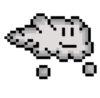
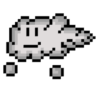
Implemented clouds

diff --git a/dinorun_game/Game.cpp b/dinorun_game/Game.cpp
@@ -1,7 +1,9 @@
 #include "Game.h"
-
+#include <iostream>
 Game::Game()
-	: backgroundMusic()
+	: gameClock()
+	, window(sf::VideoMode::getDesktopMode(), "Dino Run", sf::Style::Titlebar | sf::Style::Close)
+	, backgroundMusic()
 	, hasCollided()
 	, cloudVector()
 	, score()
@@ -13,8 +15,8 @@ Game::Game()
 
 void Game::Run()
 {
-	sf::RenderWindow window(sf::VideoMode(200, 200), "SFML Works!");
-
+	
+	SetupGame();
 
 	while (window.isOpen())
 	{
@@ -25,20 +27,47 @@ void Game::Run()
 			if (event.type == sf::Event::Closed)
 				window.close();
 		}
+		if (sf::Keyboard::isKeyPressed(sf::Keyboard::Escape))
+		{
+			// Closes Window
+			window.close();
+		}
 
-		window.clear();
-		//window.draw();
-		window.display();
+		
+		Update();
+
+		Draw();
+
+		
 
 	}
 }
 
 void Game::Update()
 {
+	sf::Time deltaTime = gameClock.restart();
+
+	
+	
+
+	for (int i = 0; i < cloudVector.size(); ++i)
+	{
+
+		cloudVector[i]->Update(deltaTime);
+
+	}
 }
 
 void Game::Draw()
 {
+	window.clear();
+    
+	for (int i = 0; i < cloudVector.size(); ++i)
+	{
+		cloudVector[i]->Draw(window);
+	}
+
+	window.display();
 }
 
 void Game::DisplayGameOver()
@@ -47,6 +76,17 @@ void Game::DisplayGameOver()
 
 void Game::SetupGame()
 {
+	sf::Vector2f screenSize(window.getSize());
+
+	//player.SetPosition(sf::Vector2f(100, screenSize.y / 2 - 50));
+
+	int numbStars = 5;
+
+	for (int i = 0; i < numbStars; ++i)
+	{
+		
+		cloudVector.push_back(new Cloud(screenSize));
+	}
 }
 
 void Game::SpawnObstacle()

diff --git a/dinorun_game/Cloud.cpp b/dinorun_game/Cloud.cpp
@@ -1,5 +1,63 @@
 #include "Cloud.h"
+#include <iostream>
+sf::Texture* Cloud::cloudTexture = nullptr;
 
-Cloud::Cloud()
+Cloud::Cloud(sf::Vector2f newScreenSize)
+	: GameObject()
+	, screenSize(newScreenSize)
+	, newPosition(0, 0)
+	, currentPosition(0, 0)
+	, velocity(-1000.0f, 0.0f)
+	, cloudFrequency(0.5f)
+	, timeSinceCloud()
 {
+	if (cloudTexture == nullptr)
+	{
+		cloudTexture = new sf::Texture();
+		cloudTexture->loadFromFile("Assets/Graphics/cloud.png");
+	}
+
+	sprite.setTexture(*cloudTexture);
+
+	rand();
+	rand();
+	rand();
+	newPosition.x = rand() % (int)screenSize.x;
+	
+	ChangePos(newPosition);
+
+	SetVelocity(velocity);
+
+}
+
+void Cloud::Update(sf::Time deltaTime)
+{
+	GameObject::Update(deltaTime);
+
+	sf::Vector2f cloudPosition = GetPosition();
+
+	if (cloudPosition.x + cloudTexture->getSize().x <= 0)
+	{
+		
+		timeSinceCloud += deltaTime;
+
+		if (timeSinceCloud.asSeconds() >= cloudFrequency)
+		{
+			Reset();
+			timeSinceCloud = sf::Time();
+		}
+
+		
+	}
+
+
+}
+
+void Cloud::Reset()
+{
+	newPosition.x = screenSize.x;
+	newPosition.y = rand() % 300;
+	currentPosition.x = newPosition.x;
+	currentPosition.y = newPosition.y;
+	ChangePos(currentPosition);
 }

diff --git a/dinorun_game/GameObject.cpp b/dinorun_game/GameObject.cpp
@@ -1,23 +1,37 @@
 #include "GameObject.h"
-
+#include <iostream>
 GameObject::GameObject()
 	: sprite()
-	, spriteTexture()
-	, speed()
-	, position()
+	, speed(10)
+	, position(0,0)
 	, collider()
-	, velocity()
+	, velocity(0,0)
 {
 }
 
 void GameObject::Update(sf::Time frameTime)
 {
+	
+	ChangePos(position + velocity * frameTime.asSeconds());
 }
 
-void GameObject::Draw()
+void GameObject::Draw(sf::RenderTarget& target)
 {
+	target.draw(sprite);
 }
 
-void GameObject::ChangePos()
+void GameObject::ChangePos(sf::Vector2f newPosition)
 {
+	position = newPosition;
+	sprite.setPosition(position);
+}
+
+void GameObject::SetVelocity(sf::Vector2f newVelocity)
+{
+	velocity = newVelocity;
+}
+
+sf::Vector2f GameObject::GetPosition()
+{
+	return position;
 }

diff --git a/dinorun_game/Cloud.h b/dinorun_game/Cloud.h
@@ -3,7 +3,21 @@
 class Cloud : public GameObject
 {
 public:
-	Cloud();
+	Cloud(sf::Vector2f newScreenSize);
+
+	virtual void Update(sf::Time deltaTime) override;
+
 private:
+
+	void Reset();
+
+
+	static sf::Texture* cloudTexture;
+	sf::Vector2f screenSize;
+	sf::Vector2f newPosition = sf::Vector2f();
+	sf::Vector2f currentPosition = sf::Vector2f();
+	sf::Vector2f velocity = sf::Vector2f();
+	float cloudFrequency;
+	sf::Time timeSinceCloud;
 };
 

diff --git a/dinorun_game/Game.h b/dinorun_game/Game.h
@@ -1,5 +1,7 @@
 #include <SFML/Graphics.hpp>
 #include <SFML/Audio.hpp>
+#include "Cloud.h"
+
 class Game
 {
 public:
@@ -10,11 +12,14 @@ public:
 	void Update();
 	void Draw();
 	void DisplayGameOver();
-	void SetupGame();
 	void SpawnObstacle();
 	void Reset();
 
 private:
+	void SetupGame();
+
+	sf::Clock gameClock;
+	sf::RenderWindow window;
 	sf::Music backgroundMusic;
 	bool hasCollided;
 	std::vector<Cloud*> cloudVector;

diff --git a/dinorun_game/GameObject.h b/dinorun_game/GameObject.h
@@ -7,12 +7,14 @@ public:
 	GameObject();
 
 	virtual void Update(sf::Time frameTime);
-	void Draw();
-	void ChangePos();
+	void Draw(sf::RenderTarget& target);
+	void ChangePos(sf::Vector2f newPos);
+	void SetVelocity(sf::Vector2f newVel);
+
+	sf::Vector2f GetPosition();
 
 protected:
 	sf::Sprite sprite;
-	sf::Texture spriteTexture;
 	float speed;
 	sf::Vector2f position;
 	sf::FloatRect collider;

diff --git a/dinorun_game/Player.cpp b/dinorun_game/Player.cpp
@@ -1,7 +1,7 @@
 #include "Player.h"
 
 Player::Player()
-	: score()
+	: score(0)
 	, jumpBuffer()
 	, hitBuffer()
 	, itemBuffer()
@@ -17,6 +17,7 @@ void Player::Update(sf::Time frameTime)
 
 void Player::Jump()
 {
+	
 }
 
 void Player::Crouch()

diff --git a/dinorun_game/Player.h b/dinorun_game/Player.h
@@ -9,7 +9,7 @@ public:
 
 	void Update(sf::Time frameTime) override;
 	void Jump();
-	void Crouch();
+	void Crouch();	
 	bool isCollidingObstacle();
     bool isCollidingMeat();
 

diff --git a/dinorun_game/Main.cpp b/dinorun_game/Main.cpp
@@ -2,6 +2,7 @@
 
 int main()
 {
+	srand(time(NULL));
 
 	Game myGame;
 
